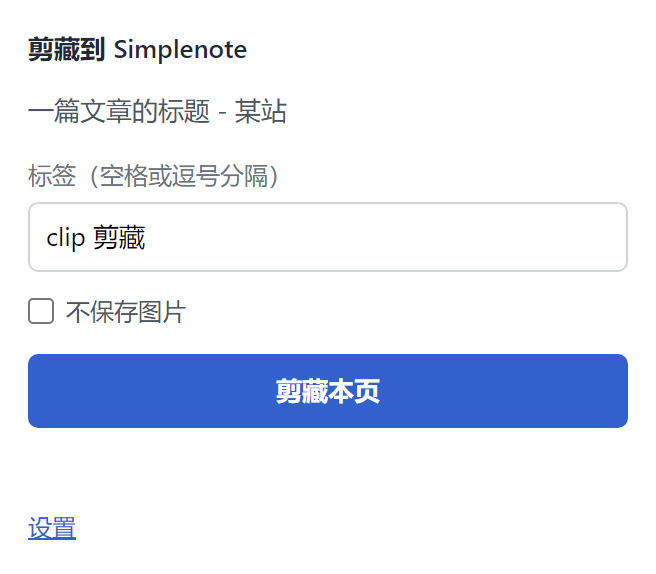
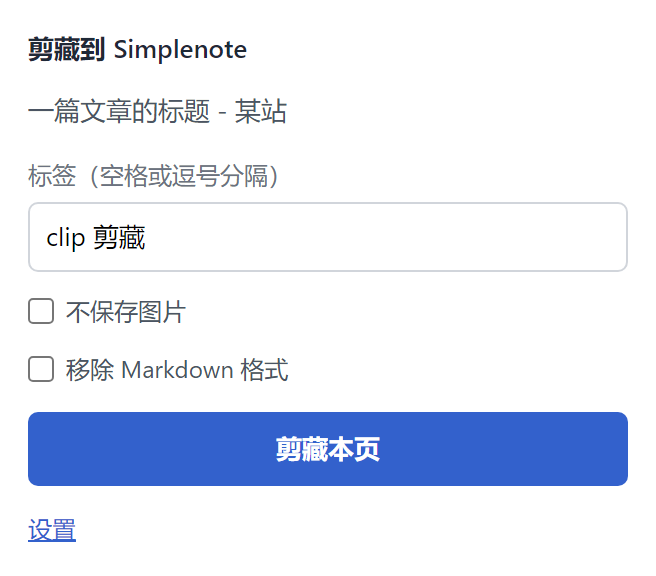
docs: 「移除 Markdown 格式」开关的说明
README 新增一节：坏排版的前后对比、逐元素对照表、几个刻意的取舍
（图片和列表表格不动、只作用于正文、默认不勾也不记忆、在转换阶段做
而不是事后拿正则洗 markdown）。

sites.md 的公众号那段补上第三个坑：整篇正文塞在 <h1> 里，带实测链接。
这个不能用站点规则救 —— 同域名下大部分文章的 <h1> 就是正常标题。

popup 截图重拍。

diff --git a/docs/sites.md b/docs/sites.md
@@ -49,6 +49,12 @@
 另一个坑：公众号排版大量用 `<div>` / `<section>`，一个 `<p>` 都没有。按段落打分选容器
 会得 0 分，转 Markdown 时也会把全文拼成一整行。两处都单独处理过了。
 
+第三个坑：有些文章整篇正文塞在一个 `<h1>` 里（编辑器里选了个「标题样式」的模板就会这样，
+实测 [自由职业成功的星盘是什么样的？](https://mp.weixin.qq.com/s/HWErVfc6E3PzopX5jJYDQw)，
+2026-08-27）。标题必须压成一行（`#` 后面换行就断了），于是 3000 字挤成一坨。这不是站点
+规则能救的 —— 同一个域名下大部分文章的 `<h1>` 就是正常标题，不能按站点一刀切。走 popup
+的「移除 Markdown 格式」：勾上之后标题按普通块渲染，段落分行就回来了（见 README）。
+
 #### 贴图型（图片消息）
 
 `page_type: 2` / `item_show_type: 8` 那种版式：几张大图配一段文案，正文里一个段落标签都
